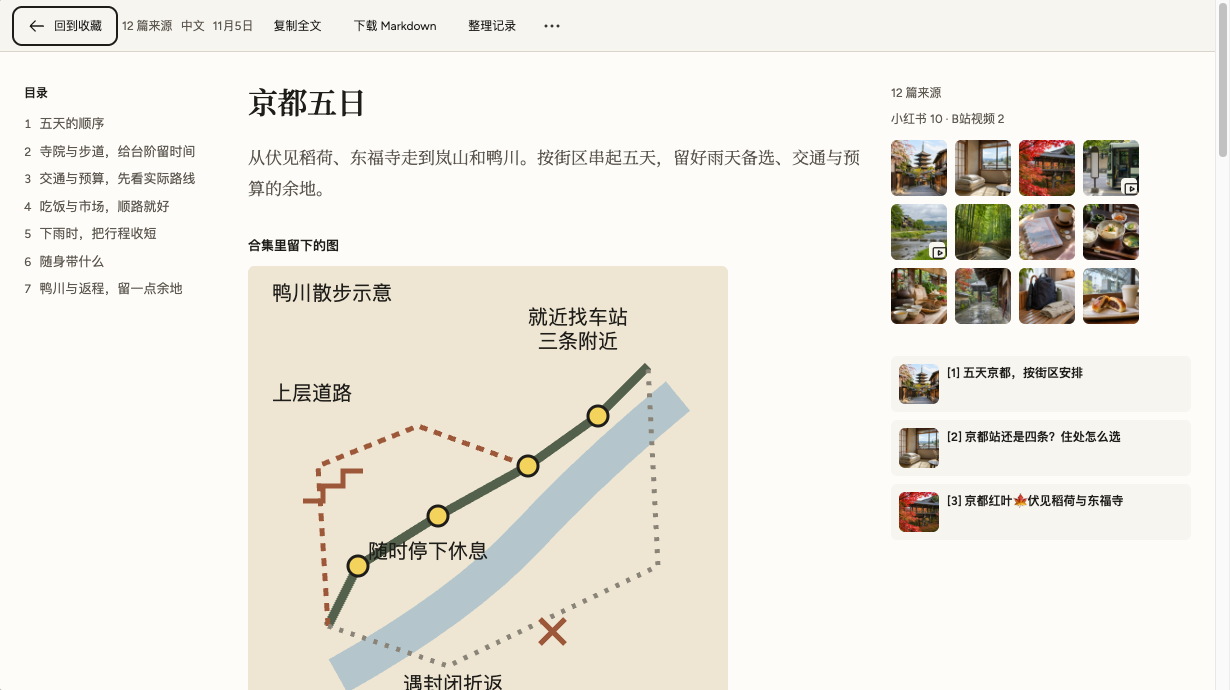
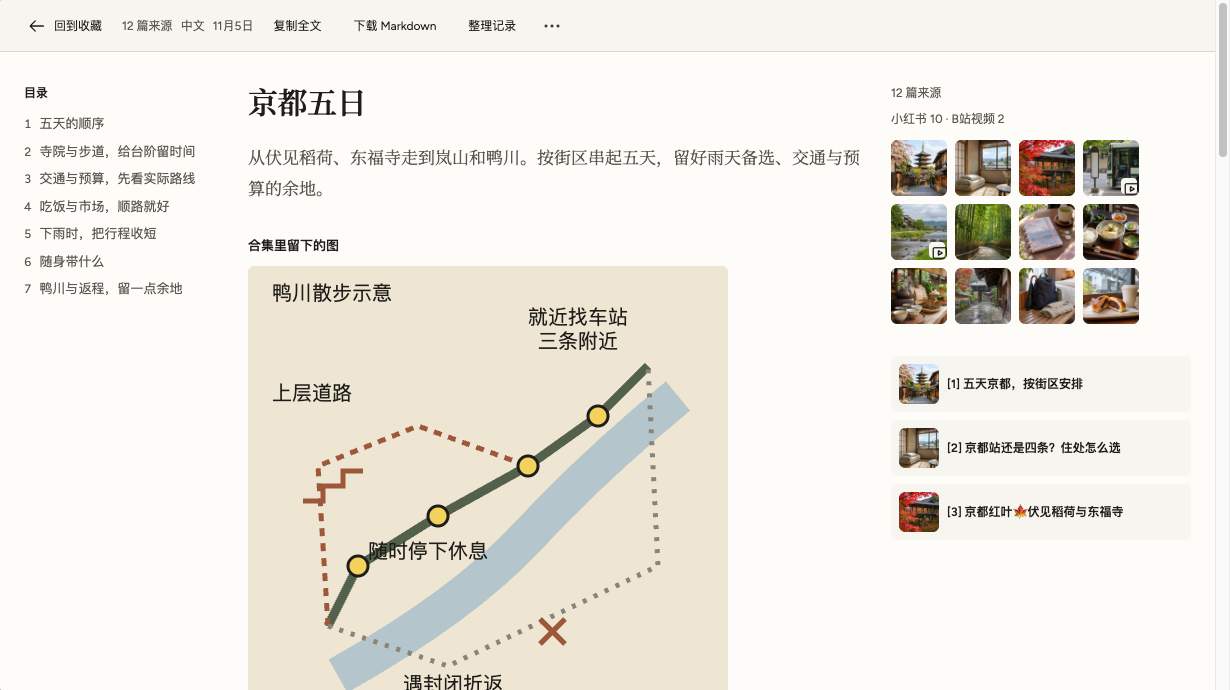
Refine library proportions and dialog focus
Narrow the desktop list, let the wider preview read in full, align phone row actions, and expose the demo help and sample capture. Keep source cards compact and focus each dialog heading when it opens.

diff --git a/js/app.js b/js/app.js
@@ -145,7 +145,7 @@ window.XHS = window.XHS || {};
     els.archCount.textContent = all.filter(function (n) { return n.archived; }).length;
     els.compArchCount.textContent = guides.filter(function (c) { return c.archived; }).length;
   }
-  function moveFilters() { var menu = document.getElementById('filterMenu'), parent = document.getElementById(innerWidth < 900 ? 'phoneFilters' : 'railFilters'); if (menu && parent && menu.parentElement !== parent) parent.append(menu); var sample = document.querySelector('[data-demo-capture]'), host = innerWidth < 900 ? document.getElementById('sampleSlot') : document.querySelector('.pile-actions'); if (sample && host && sample.parentElement !== host) host.prepend(sample); }
+  function moveFilters() { var menu = document.getElementById('filterMenu'), parent = document.getElementById(innerWidth < 900 ? 'phoneFilters' : 'railFilters'); if (menu && parent && menu.parentElement !== parent) parent.append(menu); }
   function renderLibrary() {
     var previousFocus = document.activeElement;
     var previousRowId = previousFocus.closest?.('[data-note]')?.dataset.note;
@@ -198,12 +198,12 @@ window.XHS = window.XHS || {};
     var body = '<div class="note__body">' + esc(note.body) + '</div>';
     var metadata = '<div class="preview-meta">' + esc((note.platform === 'bili' ? 'Bilibili' : 'Xiaohongshu') + (note.author ? ' · @' + note.author : '')) + '</div><div class="tags">' + (note.tags || []).map(function (tag) { return '<span>#' + esc(tag) + '</span>'; }).join('') + '</div>';
     var editor = '<details class="note-editor"' + (note.captureState === 'thin' ? ' open' : '') + '><summary>' + T('修改正文与图片', 'Edit text and images') + '</summary><label>' + T('正文', 'Text') + '<textarea data-note-text rows="6">' + esc(draft ? draft.text : note.body) + '</textarea></label><label>' + T('图片链接', 'Image links') + '<textarea data-note-images rows="2">' + esc(draft ? draft.images : (note.images || []).filter(X.refs.isWebUrl).join('\n')) + '</textarea></label><button class="btn btn--primary" data-act="save-text" data-id="' + id + '">' + T('保存', 'Save') + '</button></details>';
-    return '<div class="preview-inner"><div class="preview-toolbar">' + actions + (secondary ? '<details class="library-menu"><summary aria-label="' + T('更多笔记操作', 'More note actions') + '">' + svg('more') + '</summary><div class="menu-items">' + secondary + '</div></details>' : '') + '</div>' + renderImages(note) + '<h2 class="preview-title">' + esc(note.title) + '</h2>' + (note.captureState ? '<p class="capture-notice">' + esc(captureMessage(note)) + (note.captureState === 'video-offline' ? '<button class="btn" data-local-help>' + T('怎么开启', 'How to start it') + '</button>' : '') + '</p>' : '') + (source ? metadata + body : '<p class="preview-short">' + esc(String(note.body || '').slice(0, 180)) + '</p><details class="note-full"><summary>' + T('阅读全文', 'Read full note') + '</summary>' + metadata + body + (note.captureState === 'thin' ? '' : editor) + '</details>' + (note.captureState === 'thin' ? editor : '')) + renderTranscript(note, source && isVideo(note)) + (note.url ? X.refs.isWebUrl(note.url) ? '<a class="btn btn--ghost note__link" href="' + esc(note.url) + '" target="_blank" rel="noreferrer">' + svg('open') + T('打开原帖', 'Open original') + '</a>' : '<span class="note__link">' + esc(note.url) + '</span>' : '') + '</div>';
+    return '<div class="preview-inner"><div class="preview-toolbar">' + actions + (secondary ? '<details class="library-menu"><summary aria-label="' + T('更多笔记操作', 'More note actions') + '">' + svg('more') + '</summary><div class="menu-items">' + secondary + '</div></details>' : '') + '</div>' + renderImages(note) + '<h2 class="preview-title">' + esc(note.title) + '</h2>' + (note.captureState ? '<p class="capture-notice">' + esc(captureMessage(note)) + (note.captureState === 'video-offline' ? '<button class="btn" data-local-help>' + T('怎么开启', 'How to start it') + '</button>' : '') + '</p>' : '') + (source ? metadata + body : innerWidth >= 900 ? metadata + body + editor : '<p class="preview-short">' + esc(String(note.body || '').slice(0, 180)) + '</p><details class="note-full"><summary>' + T('阅读全文', 'Read full note') + '</summary>' + metadata + body + (note.captureState === 'thin' ? '' : editor) + '</details>' + (note.captureState === 'thin' ? editor : '')) + renderTranscript(note, source && isVideo(note)) + (note.url ? X.refs.isWebUrl(note.url) ? '<a class="btn btn--ghost note__link" href="' + esc(note.url) + '" target="_blank" rel="noreferrer">' + svg('open') + T('打开原帖', 'Open original') + '</a>' : '<span class="note__link">' + esc(note.url) + '</span>' : '') + '</div>';
   }
   function renderPreview() { els.preview.innerHTML = previewHtml(noteById(focusedId)); X.images.hydrate(els.preview); }
   function showNote(id) {
     focusedId = id; renderPreview();
-    if (innerWidth < 900) { els.noteDlg.classList.remove('tray-sheet'); els.noteDlg.innerHTML = '<div class="sheet-bar"><button class="btn" data-close-note>' + svg('back') + T('回到收藏', 'Back') + '</button></div>' + previewHtml(noteById(id)); els.noteDlg.showModal(); X.images.hydrate(els.noteDlg); }
+    if (innerWidth < 900) { els.noteDlg.classList.remove('tray-sheet'); els.noteDlg.innerHTML = '<div class="sheet-bar"><button class="btn" data-close-note>' + svg('back') + T('回到收藏', 'Back') + '</button></div>' + previewHtml(noteById(id)); els.noteDlg.showModal(); focusDialogHeading(els.noteDlg); X.images.hydrate(els.noteDlg); }
   }
   function selectNote(id, value, range, keyboardInput) {
     if (activePlace !== 'saved' || binding) return;
@@ -250,7 +250,7 @@ window.XHS = window.XHS || {};
     els.noteDlg.classList.add('tray-sheet');
     els.noteDlg.replaceChildren();
     var close = document.createElement('div'); close.className = 'sheet-bar'; close.innerHTML = '<button class="btn" data-close-note>' + svg('back') + T('回到选择', 'Back to selection') + '</button>';
-    els.noteDlg.append(close, els.selBar); els.noteDlg.showModal();
+    els.noteDlg.append(close, els.selBar); els.noteDlg.showModal(); focusDialogHeading(els.noteDlg);
   }
   function chooseDemoSet(key) { selectedIds.clear(); activePlace = 'saved'; activeFilter = key === 'food' ? '美食' : '旅行'; activeTag = ''; X.store.getAll().filter(function (n) { return n.demoKey?.startsWith(key + '-'); }).forEach(function (note) { X.store.unarchive([note.id]); selectedIds.add(note.id); }); renderLibrary(); }
   function onFetch(raw) {
@@ -385,13 +385,14 @@ window.XHS = window.XHS || {};
     var top = margin.getBoundingClientRect().top, overview = margin.querySelector('.source-overview'), end = overview ? overview.getBoundingClientRect().bottom - top + 24 : 0;
     els.readDlg.querySelectorAll('[data-margin]').forEach(function (group) { var section = els.readDlg.querySelector('#read-sec-' + group.dataset.margin); if (!section) return; var position = section.getBoundingClientRect().top - top; var gap = Math.max(0, position - end); if (group.dataset.margin === '1') gap = Math.min(32, gap); group.style.marginTop = gap + 'px'; end = group.getBoundingClientRect().bottom - top + 24; });
   }
+  function focusDialogHeading(dialog) { var heading = dialog.querySelector('h1,h2'); if (heading) { heading.setAttribute('tabindex', '-1'); heading.focus({ preventScroll: true }); } }
   function openRead(id, opener) {
     var c = compById(id); if (!c) return;
     readingCompId = id; readOpener = opener || document.activeElement; editingCompId = null;
     els.readDlg.classList.remove('trace-open', 'contents-open', 'is-scrolled'); els.readDlg.innerHTML = compReadHtml(c);
     if (!els.readDlg.open) els.readDlg.showModal(); els.readDlg.scrollTop = 0;
     els.readDlg.style.setProperty('--read-bar-h', els.readDlg.querySelector('.read__bar').getBoundingClientRect().height + 'px');
-    els.readDlg.querySelector('button')?.focus(); X.images.hydrate(els.readDlg); document.fonts.ready.then(alignMargins);
+    focusDialogHeading(els.readDlg); X.images.hydrate(els.readDlg); document.fonts.ready.then(alignMargins);
   }
   function closeRead() { if (editingCompId && !confirm(T('放弃还没保存的修改？', 'Discard unsaved changes?'))) return; editingCompId = null; readingCompId = null; els.readDlg.close(); if (readOpener?.isConnected) readOpener.focus(); }
   function openSource(n, opener) {
@@ -457,7 +458,7 @@ window.XHS = window.XHS || {};
     document.querySelector('.skip').textContent = T('跳到笔记', 'Skip to notes'); document.querySelector('.brand').setAttribute('aria-label', T('Clipbind 首页', 'Clipbind home'));
     document.querySelectorAll('summary[aria-label]').forEach(function (el) { if (el.closest('.library-menu')) el.setAttribute('aria-label', T('收藏库工具', 'Library tools')); });
     var sample = document.querySelector('[data-demo-capture]'); sample.hidden = !demo; sample.textContent = T('试存一条示例', 'Try a sample save');
-    if (demo && !els.demoStrip.dataset.dismissed) { els.demoStrip.hidden = false; els.demoStrip.innerHTML = '<span>' + T('虚构示例', 'Fictional notes') + '</span><button class="btn" data-cact="read" data-id="demo-guide-kyoto">' + T('打开《京都五日》', 'Open Kyoto guide') + '</button><details class="library-menu"><summary aria-label="' + T('示例说明', 'About the demo') + '">' + svg('more') + '</summary><div class="menu-items"><p>' + T('示例笔记与图片由 AI 创作，使用真实地名；预算为约数，出发前请核对实际信息。', 'AI-written sample notes and images use real place names. Budgets are rough planning ranges; check current details before visiting.') + '</p><button class="btn" data-how>' + T('它是怎么做的', 'How it works') + '</button></div></details>' + iconBtn('data-dismiss-demo', '关闭示例提示', 'Dismiss demo strip', 'close'); }
+    if (demo && !els.demoStrip.dataset.dismissed) { els.demoStrip.hidden = false; els.demoStrip.innerHTML = '<span>' + T('虚构示例', 'Fictional notes') + '</span><button class="btn" data-cact="read" data-id="demo-guide-kyoto">' + T('打开《京都五日》', 'Open Kyoto guide') + '</button><button class="btn" data-how>' + T('它是怎么做的', 'How it works') + '</button>' + iconBtn('data-dismiss-demo', '关闭示例提示', 'Dismiss demo strip', 'close'); }
   }
   function showInfo(shortcuts, localVideo) {
     var title = shortcuts ? T('键盘快捷键', 'Keyboard shortcuts') : localVideo ? T('本机视频服务', 'Local video service') : T('它是怎么做的', 'How it works');
@@ -480,7 +481,7 @@ window.XHS = window.XHS || {};
     ];
     var keys = [['/', T('搜索', 'Search')], ['a', T('粘贴输入框', 'Capture field')], ['j / k', T('下一篇、上一篇', 'Next or previous note')], ['x', T('选择笔记', 'Select note')], ['⌘A', T('全选当前列表', 'Select current list')], ['b', T('整理所选笔记', 'Bind selection')], ['e', T('归档', 'Archive')], ['[ / ]', T('收起侧栏、预览', 'Collapse rail or preview')], ['n / p', T('阅读下一节、上一节', 'Next or previous section')], ['z', T('撤销', 'Undo')], ['Esc', T('关闭上层，再取消选择', 'Close top layer, then clear selection')]];
     els.infoDlg.innerHTML = '<button class="btn" data-close-info>' + svg('close') + T('关闭', 'Close') + '</button><h1 id="info-title">' + title + '</h1>' + (shortcuts ? '<div class="shortcut-list">' + keys.map(function (key) { return '<kbd>' + key[0] + '</kbd><span>' + key[1] + '</span>'; }).join('') + '</div>' : localVideo ? '<p>' + stages[6][2] + '</p><p>' + T('在电脑上按仓库 local/README.md 启动服务，然后到设置的连接部分保存本机服务口令。', 'Start the service following local/README.md, then save its local service token under Connections in Settings.') + '</p><button class="btn" data-open-ai>' + T('打开设置', 'Open Settings') + '</button>' : '<p>' + T('笔记进来，带着来源的合集出去。每一步都能在代码和测试里找到。', 'A saved pile becomes a guide with traceable sources. Follow each step in the code and its checks.') + '</p><div class="pipeline-flow" role="tablist">' + pipelineStages.map(function (stage, i) { return (i ? svg('chevron') : '') + '<button class="pipeline-node" role="tab" aria-selected="' + (i === 0) + '" data-pipeline-node="' + i + '">' + stage[1] + '</button>'; }).join('') + '</div><div class="pipeline-branch">' + svg('video') + '<button class="btn" data-pipeline-video>' + T('本机视频：下载、转写、挑截图，再接入读取','Local video: download, transcribe, select frames, then join Read') + '</button></div><section id="pipelineDetail" class="pipeline-detail" role="tabpanel"></section>');
-    els.infoDlg.showModal(); if (!shortcuts && !localVideo) renderPipelineDetail(0);
+    els.infoDlg.showModal(); focusDialogHeading(els.infoDlg); if (!shortcuts && !localVideo) renderPipelineDetail(0);
   }
   function renderPipelineDetail(index, video) {
     var stage = video ? ['fetch.js', T('本机视频', 'Local video'), T('本机下载和转写，按画面差异取帧，再由模型挑选有用截图。登录态和媒体留在本机；候选截图可发送给模型。', 'Download and transcribe locally, find frame changes, then ask the model to keep useful frames. Sessions and media stay local; candidate images may be sent to the model.'), 'node check-capture.mjs'] : pipelineStages[index];
@@ -570,7 +571,7 @@ window.XHS = window.XHS || {};
           event.preventDefault();
           var lightbox = document.getElementById('imageDlg');
           lightbox.innerHTML = '<button class="btn" data-close-image>' + svg('close') + T('关闭图片', 'Close image') + '</button><h1 id="image-title">' + esc(image.alt) + '</h1><img src="' + esc(image.src) + '" alt="' + esc(image.alt) + '">';
-          lightbox.showModal();
+          lightbox.showModal(); focusDialogHeading(lightbox);
           return;
         }
       }

diff --git a/styles.css b/styles.css
@@ -50,7 +50,7 @@ kbd { font: .75rem var(--font-body); color: var(--ink-2); }
 .demo-strip { display: flex; align-items: center; gap: .5rem; flex-wrap: wrap; padding: .25rem .75rem .25rem 14.5rem; font-size: .75rem; color: var(--ink-2); max-width: 76.875rem; margin-inline: auto; }
 .demo-strip button { min-height: 1.5rem; font-size: .75rem; padding: 0 .25rem; }
 .demo-strip .btn-icon { width: 1.5rem; height: 1.5rem; padding: .25rem; }
-.workspace { display: grid; grid-template-columns: 13.75rem minmax(0,1fr) 25rem; gap: .5rem; padding: .5rem .75rem .75rem; min-height: calc(100dvh - 3.5rem); max-width: 76.875rem; margin: 0 auto; align-items: start; }
+.workspace { display: grid; grid-template-columns: 13.75rem minmax(0,28rem) minmax(0,1fr); gap: .5rem; padding: .5rem .75rem .75rem; min-height: calc(100dvh - 3.5rem); max-width: 76.875rem; margin: 0 auto; align-items: start; }
 .rail, .list-column, .detail-pane { background: var(--panel); border-radius: .75rem; min-width: 0; }
 .rail { position: sticky; top: calc(var(--header-height,3.5rem) + .5rem); padding: .75rem .5rem; min-height: calc(100dvh - var(--header-height,3.5rem) - 1.25rem); max-height: calc(100dvh - var(--header-height,3.5rem) - 1.25rem); overflow: auto; }
 .places, .topics { display: flex; flex-direction: column; align-items: stretch; gap: .25rem; }
@@ -164,7 +164,7 @@ input[type=checkbox]:checked { background: var(--ink); border-color: var(--ink);
 .tip { position: fixed; z-index: 100; pointer-events: none; opacity: 0; padding: .5rem .75rem; border-radius: .375rem; background: var(--ink); color: var(--panel); font-size: .75rem; max-width: calc(100vw - 1rem); }
 .tip.is-on { opacity: 1; }
 .phone-places, .phone-topics, .mobile-selection { display: none; }
-.workspace.rail-collapsed { grid-template-columns: 3.5rem minmax(0,1fr) 25rem; }
+.workspace.rail-collapsed { grid-template-columns: 3.5rem minmax(0,28rem) minmax(0,1fr); }
 .rail-collapsed .rail .place { font-size: 0; padding-inline: .5rem; }
 .rail-collapsed .rail .place span, .rail-collapsed .rail .topics, .rail-collapsed .rail .rail-caption, .rail-collapsed .rail .source-filters, .rail-collapsed .rail .rail-guides, .rail-collapsed .rail .about-button { display: none; }
 .workspace.pane-collapsed { grid-template-columns: 13.75rem minmax(0,1fr); }
@@ -199,7 +199,7 @@ dialog::backdrop { background: var(--shadow); }
 .read__cites a:focus, .read__cites a:hover { background: var(--mark); color: var(--mark-ink); outline: 1px solid var(--ink); }
 .read__sources { position: relative; min-width: 0; font-size: .8125rem; }
 .margin-section { margin-bottom: 1.5rem; }
-.margin-card { display: flex; align-items: flex-start; gap: .5rem; border: 0; padding: .5rem; border-radius: .375rem; width: 100%; text-align: left; background: var(--panel); margin-bottom: .5rem; }
+.margin-card { display: flex; align-items: center; min-height: 0; gap: .5rem; border: 0; padding: .5rem; border-radius: .375rem; width: 100%; text-align: left; background: var(--panel); margin-bottom: .5rem; }
 .margin-card .cover { width: 2.5rem; height: 2.5rem; }
 .margin-card > span { min-width: 0; }
 .margin-card strong { font-size: .8125rem; font-weight: 600; display: block; }
@@ -226,8 +226,9 @@ dialog::backdrop { background: var(--shadow); }
 .comp__ed-h { font-size: 1.375rem; font-weight: 600; }
 .note-dialog { width: 42rem; max-width: calc(100vw - 2rem); max-height: calc(100dvh - 2rem); padding: 0; border-radius: .75rem; }
 .sheet-bar { position: sticky; top: 0; z-index: 2; background: var(--panel); padding: .5rem; display: flex; gap: .5rem; align-items: center; }
-.info-dialog { width: 60rem; max-width: calc(100vw - 2rem); max-height: calc(100dvh - 2rem); padding: 1.5rem; border-radius: .75rem; }
+.info-dialog { width: fit-content; max-width: min(60rem,calc(100vw - 2rem)); max-height: calc(100dvh - 2rem); padding: 1.5rem; border-radius: .75rem; }
 .info-dialog h1 { font-size: 1.375rem; margin: 0 0 1rem; }
+dialog :is(h1,h2)[tabindex="-1"]:focus:not(:focus-visible) { outline: none; }
 .image-dialog { max-width: calc(100vw - 2rem); max-height: calc(100dvh - 2rem); padding: 1rem; border-radius: .75rem; }
 .image-dialog h1 { font-size: .9375rem; }
 .image-dialog img { display: block; max-width: 100%; max-height: 75dvh; object-fit: contain; }
@@ -296,6 +297,7 @@ mark { background: var(--mark); color: var(--mark-ink); }
 .trace-dot { display: inline-block; width: .375rem; height: .375rem; border-radius: 50%; background: var(--ink); }
 .phone-nav { display: none; }
 .demo-capture { font-size: .75rem; color: var(--ink-2); min-height: 1.5rem; padding: 0; margin: -.75rem 0 .5rem; }
+.capture-field .demo-capture { flex: none; height: 2rem; min-height: 2rem; margin: 0; padding: .25rem .5rem; white-space: nowrap; }
 .demo-strip { min-height: 1.5rem; padding-block: 0; }
 .demo-strip > .library-menu { font-size: .75rem; }
 .demo-strip .menu-items p { margin: .5rem; max-width: 16rem; }
@@ -313,7 +315,7 @@ mark { background: var(--mark); color: var(--mark-ink); }
 .pipeline-detail p { margin: .5rem 0; }
 .pipeline-detail code { font: .75rem var(--font-body); }
 @media (min-width: 900px) and (max-width: 1150px) {
-  .workspace { grid-template-columns: 11.25rem minmax(0,1fr) 20rem; }
+  .workspace { grid-template-columns: 11.25rem minmax(0,25rem) minmax(0,1fr); }
   .header-search { width: 18rem; }
 }
 @media (max-width: 899px) {
@@ -403,7 +405,13 @@ mark { background: var(--mark); color: var(--mark-ink); }
   #phoneFilters .menu-items { left: auto; right: 0; }
   .pile-head { display: none; }
   .note-row { min-height: 4rem; }
+  .note-row { display: grid; grid-template-columns: 3rem minmax(0,1fr) 2rem; align-items: center; }
+  body.has-selection .note-row { grid-template-columns: 1.25rem 3rem minmax(0,1fr) 2rem; }
+  .note-row:has(>button[data-act=unarch]) { grid-template-columns: 2.75rem 3rem minmax(0,1fr) 2rem; }
+  .note-row .row-title { display: block; white-space: nowrap; overflow: hidden; text-overflow: ellipsis; }
+  .note-row .row-content { width: 100%; min-width: 0; }
   .note-row > .row-more { opacity: 1; }
+  .note-row > .row-more { grid-column: -2 / -1; justify-self: center; width: 2rem; height: 2rem; }
   .row-meta { line-height: 1.4; }
   .preview-inner { padding: 1rem; }
   .read__bar { height: 3.25rem; min-height: 3.25rem; flex-wrap: nowrap; gap: .5rem; padding: .5rem .75rem; }
@@ -413,6 +421,12 @@ mark { background: var(--mark); color: var(--mark-ink); }
   .pipeline-flow { flex-direction: column; align-items: flex-start; gap: .25rem; }
   .pipeline-node { flex-direction: row; padding: .25rem; }
   .pipeline-flow > svg { transform: rotate(90deg); margin-left: .125rem; }
+}
+
+@media (min-width: 900px) {
+  #preview .gallery { flex-wrap: wrap; overflow: visible; }
+  #preview .gallery a { width: 100%; max-width: 20rem; height: auto; aspect-ratio: 1; }
+  #preview .gallery img { width: 100%; max-width: none; height: 100%; object-fit: cover; }
 }
 @media (prefers-reduced-motion: reduce) {
   *, *::before, *::after { animation-duration: 0s !important; transition-duration: 0s !important; scroll-behavior: auto !important; }

diff --git a/index.html b/index.html
@@ -28,7 +28,7 @@
 <script src="assets/save-status-owned.js?v=f113d5ae42c7"></script>
 <script src="assets/first-read.js?v=c44c0c045ec1"></script>
 <link rel="stylesheet" href="assets/settings-standard/scale.css?v=e8a19b78e927">
-<link rel="stylesheet" href="styles.css?v=6d8be4b230b9">
+<link rel="stylesheet" href="styles.css?v=b87586a8067b">
 </head>
 <body>
 <a class="skip" href="#main">Skip to content</a>
@@ -51,8 +51,8 @@
     <button id="aboutBtn" class="btn btn--ghost about-button">How it works</button>
   </aside>
   <section class="list-column" aria-label="Notes and guides">
-    <form id="captureForm" class="capture"><div class="capture-field"><input id="urlInput" type="text" autocomplete="off" aria-label="Paste a link or share text"><button id="pasteBtn" type="button" class="btn btn--ghost">Paste</button></div><button id="fetchBtn" type="submit" class="btn btn--primary">Save</button></form>
-    <div id="sampleSlot"><button class="btn demo-capture" data-demo-capture hidden>Try a sample save</button></div><div class="phone-nav"><nav id="phonePlaces" class="phone-places" aria-label="Library"></nav><div id="phoneScroll" class="phone-scroll"><div id="phoneTopics" class="phone-topics"></div></div><div id="phoneFilters"></div></div>
+    <form id="captureForm" class="capture"><div class="capture-field"><input id="urlInput" type="text" autocomplete="off" aria-label="Paste a link or share text"><button id="pasteBtn" type="button" class="btn btn--ghost">Paste</button><button type="button" class="btn btn--ghost demo-capture" data-demo-capture hidden>Try a sample save</button></div><button id="fetchBtn" type="submit" class="btn btn--primary">Save</button></form>
+    <div class="phone-nav"><nav id="phonePlaces" class="phone-places" aria-label="Library"></nav><div id="phoneScroll" class="phone-scroll"><div id="phoneTopics" class="phone-topics"></div></div><div id="phoneFilters"></div></div>
     <div class="pile-head"><div id="pileTitle" class="pile-title"></div><div class="pile-actions"><button id="selectAll" class="btn btn--ghost">Select all</button><span id="pileGuide" class="muted"></span><details class="library-menu"><summary aria-label="Library tools"><svg viewBox="0 0 24 24" aria-hidden="true"><circle cx="4" cy="12" r="1"/><circle cx="12" cy="12" r="1"/><circle cx="20" cy="12" r="1"/></svg></summary><div class="menu-items"><button class="btn desktop-only" data-toggle-rail>Hide sidebar</button><button class="btn desktop-only" data-toggle-pane>Hide preview</button><button id="exportMd" class="btn">Download notes (Markdown)</button><button id="exportJson" class="btn">Download notes (JSON)</button><button id="fixAllBtn" class="btn">Fix all images</button><button id="archToggle" class="btn">Archive <span id="archCount"></span></button><button id="compArchToggle" class="btn">Archived guides <span id="compArchCount"></span></button></div></details></div></div>
     <div id="libCount" class="sr-only"></div>
     <div id="libList" class="lib__list"></div>
@@ -89,7 +89,7 @@
 <script src="js/ai.js"></script>
 <script src="demo/data.js?v=95d7357b4f50"></script>
 <script src="js/library.js?v=aab45affa555"></script>
-<script src="js/app.js?v=ea58ba5f18e1"></script>
+<script src="js/app.js?v=2bb202ee55ed"></script>
 <script>
   /* the family's light/dark control and Settings dialog; the app's own connection settings are the ⚙ inside the library */
   // Canonical Settings owns the theme control.
